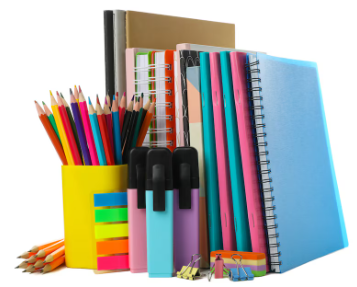
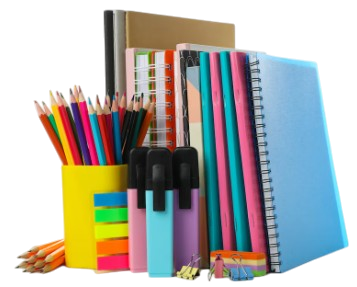
Implementado cambios x facu

diff --git a/src/Components/Cart/Cart.jsx b/src/Components/Cart/Cart.jsx
@@ -5,6 +5,7 @@ import { Link } from "react-router-dom";
 
 const Cart = () => {
   const [envio] = useState(0);
+  const COMPRA_MINIMA = 50000;
 
   const {
     cart,
@@ -24,6 +25,9 @@ const Cart = () => {
     (acc, prod) => acc + getPrecio(prod) * prod.cantidad,
     0
   );
+
+  const faltaParaMinimo = COMPRA_MINIMA - subtotal;
+  const compraMinimaCumplida = subtotal >= COMPRA_MINIMA;
 
   useEffect(() => {
     const nuevoTotal = subtotal + envio;
@@ -94,7 +98,8 @@ const Cart = () => {
               </div>
 
               <div className="col-6 col-md-2 text-center prod_prices_cart">
-                <small className="d-md-none">Precio:</small> ${(getPrecio(prod)).toFixed(2)}
+                <small className="d-md-none">Precio:</small> $
+                {getPrecio(prod).toFixed(2)}
               </div>
 
               <div className="col-6 col-md-2 text-center prod_prices_cart">
@@ -115,9 +120,7 @@ const Cart = () => {
 
               <div className="alert alert-warning mb-0">
                 <h4>Costo Envío</h4>
-                <p className="text-dark mb-0">
-                  Costo de envio (a acordar)
-                </p>
+                <p className="text-dark mb-0">Costo de envio (a acordar)</p>
               </div>
             </div>
 
@@ -142,11 +145,30 @@ const Cart = () => {
                 </table>
               </div>
 
-              <Link to={"/ticketCompra"} className="text-center">
-                <button className="btn btn-primary mb-4 btn-custom-width">
-                  Confirmar compra
-                </button>
-              </Link>
+              {!compraMinimaCumplida && (
+                <div className="alert alert-warning text-center">
+                  La compra mínima mayorista es de $50.000.
+                  <br />
+                  Te faltan ${faltaParaMinimo.toFixed(2)} para poder confirmar.
+                </div>
+              )}
+
+              {compraMinimaCumplida ? (
+                <Link to={"/ticketCompra"} className="text-center">
+                  <button className="btn btn-primary mb-4 btn-custom-width">
+                    Confirmar compra
+                  </button>
+                </Link>
+              ) : (
+                <div className="text-center">
+                  <button
+                    className="btn btn-secondary mb-4 btn-custom-width"
+                    disabled
+                  >
+                    Confirmar compra
+                  </button>
+                </div>
+              )}
             </div>
           </div>
         </>

diff --git a/src/Components/Footer/Footer.jsx b/src/Components/Footer/Footer.jsx
@@ -14,7 +14,7 @@ const Footer = () => {
         <div className="col-md-4 col-12 text-center">
           {" "}
           <img
-            src="./images/BZPrint-Logo.png"
+            src="./images/BzMayorista-Logo.png"
             alt="logo"
             className="brand_image_navbar"
           />
